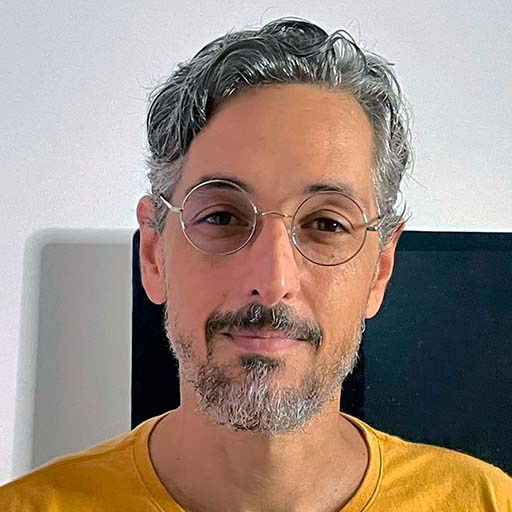
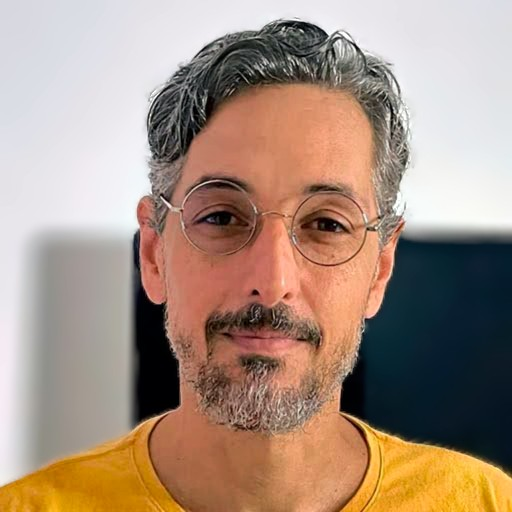
adicionado mais palestrantes, retoque nas fotos

diff --git a/index_en.html b/index_en.html
@@ -63,7 +63,7 @@
         Santa Catarina (UFSC), where she develops optimization algorithms for applications in quantum computing
         and simulation, with an emphasis on FALQON (Feedback-based Quantum Optimization) and the Classical 
         Shadows technique.<br>
-        Member of the research groups in Quantum Computing (GCQ) and Quantum Information of the South (GIQSul).<br>
+        Member of the research groups in Quantum Computing (GCQ) and Quantum Information of the South (GIQSul).
         Also conducted research in the field of Condensed Matter and Statistical Mechanics, with an emphasis on Nanomaterials.
     </p>
     </div>
@@ -92,7 +92,7 @@
       <h3>Mauro C. Andreassa</h3>
       <p class="bio"> Physicist from PUC-SP, he is the Secretary of the Quantum Technologies Committee at ABNT,
         a member of I2AI (International Association of Artificial Intelligence) and
-        AAAI (Association for the Advancement of Artificial Intelligence).<br>
+        AAAI (Association for the Advancement of Artificial Intelligence).
         He holds an MBA with an emphasis on Administration and Marketing and has been teaching for 25 years in undergraduate and postgraduate courses.<br>
         Founder of the company Big Learning Ltda, co-founder of L2M Assessoria e Treinamento,
         and the podcast "Anote Aí," where he shares insights
@@ -120,6 +120,39 @@
           learning and quantum optimization, 
           highlighting the convergence of his 
           main areas of expertise.</p>
+      </div>
+    </div>
+    <div class="palestrante-card">
+      <img class="palestrante-photo" src="Palestrantes/Elon/foto.jpg" alt="Elon Picture">
+      <div class="info-palestrante">
+        <!-- <p><strong>Tema:</strong> "Introdução à Computação Quântica"</p> -->
+        <!-- <p><strong>Horário:</strong> 10h00 - 11h00</p> -->
+        <h3>Elon Martins de Sá</h3>
+        <p class="bio">Postdoctoral researcher at the Military Engineering Institute (IME)
+          in free-space quantum communication and quantum computing. Technologist in geographic
+          and statistical information at the Brazilian Institute of Geography and Statistics (IBGE).<br>
+          Graduated in Physics from the Federal University of Rio de Janeiro (UFRJ) in 1994, where he
+          completed a master’s degree in Theory of Relativity in 1997, and a PhD in Statistical Physics
+          in 2001. He has extensive experience in teaching Physics at the higher education level for 19
+          years at the Souza Marques Technical-Educational Foundation.</p>
+      </div>
+    </div>
+    <div class="palestrante-card">
+      <img class="palestrante-photo" src="Palestrantes/Carlos/foto.jpg" alt="Carlos Picture">
+      <div class="info-palestrante">
+        <!-- <p><strong>Tema:</strong> "Introdução à Computação Quântica"</p> -->
+        <!-- <p><strong>Horário:</strong> 10h00 - 11h00</p> -->
+        <h3>Carlos H. G. Bessa</h3>
+        <p class="bio">Researcher and professor at the British startup 
+          Zaiku Group Ltd. Postdoctoral fellowships at Tufts University, 
+          Federal University of Paraíba, Brazilian Center for Research in 
+          Physics, and University of São Paulo. PhD in Physics from the Federal 
+          University of Paraíba, Master's and Bachelor's degrees in Physics from 
+          the Federal University of Rio Grande do Norte. He has various interests 
+          in physics, mathematics, and currently in quantum computing, particularly 
+          in quantum hardware for computing, as well as optimization algorithms and 
+          quantum machine learning.
+        </p>
       </div>
     </div>
 </section>

diff --git a/index.html b/index.html
@@ -116,6 +116,40 @@
           quântica realçando a confluência de suas principais áreas de expertise.</p>
       </div>
     </div>
+    <div class="palestrante-card">
+      <img class="palestrante-photo" src="Palestrantes/Elon/foto.jpg" alt="Foto Elon">
+      <div class="info-palestrante">
+        <!-- <p><strong>Tema:</strong> "Introdução à Computação Quântica"</p> -->
+        <!-- <p><strong>Horário:</strong> 10h00 - 11h00</p> -->
+        <h3>Elon Martins de Sá</h3>
+        <p class="bio">Pós-doutorando no
+          Instituto Militar de Engenharia (IME) em comunicação quântica no espaço livre e em
+          computação quântica. Tecnologista em informações
+          geográficas e estatísticas no Instituto Brasileiro de Geografia e Estatística (IBGE).<br>
+          Graduado em Física pela Universidade
+          Federal do Rio de Janeiro (UFRJ) em 1994, onde
+          concluiu mestrado em Teoria da Relatividade em 1997, e
+          doutorado em Física Estatística em 2001. Possui vasta experiência no ensino superior de Física durante 19 anos
+          na Fundação Técnico-Educacional Souza Marques.</p>
+      </div>
+    </div>
+    <div class="palestrante-card">
+      <img class="palestrante-photo" src="Palestrantes/Carlos/foto.jpg" alt="Foto Carlos">
+      <div class="info-palestrante">
+        <!-- <p><strong>Tema:</strong> "Introdução à Computação Quântica"</p> -->
+        <!-- <p><strong>Horário:</strong> 10h00 - 11h00</p> -->
+        <h3>Carlos H. G. Bessa</h3>
+        <p class="bio">Pesquisador e professor na startup britânica Zaiku Group Ltd. Pós-doutorados pela Tufts University,
+          Universidade Federal da Paraíba, Centro Brasileiro de Pesquisas Físicas, e Universidade de São Paulo.
+          Doutorado em Física pela Universidade Federal da Paraíba, Mestrado e Bacharel em Física pela Universidade Federal do Rio Grande do Norte.
+          Possui diversos interesses em física, 
+          matemática e atualmente em computação quântica, 
+          em especial em hardwares quânticos para computação, 
+          além de algoritmos de otimização e aprendizado 
+          de máquinas quânticas.
+        </p>
+      </div>
+    </div>
   </section>
 
   
